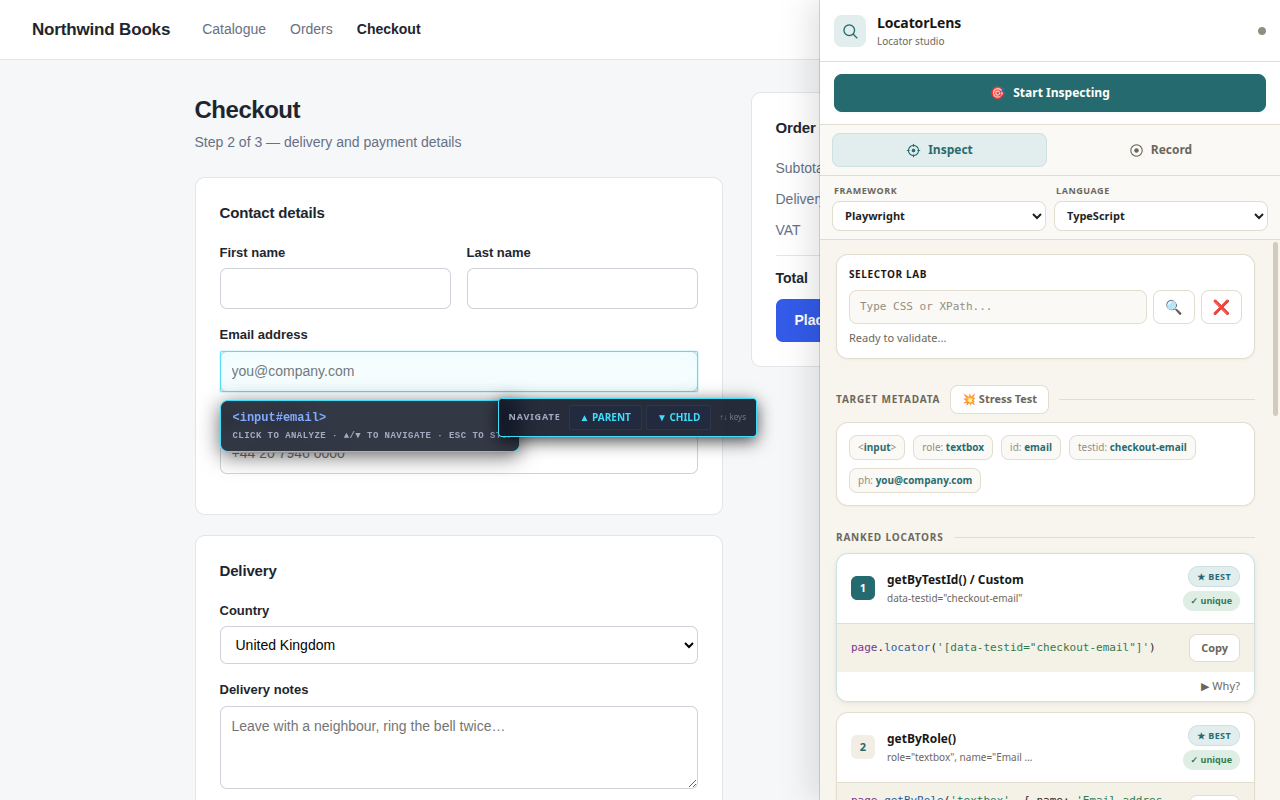
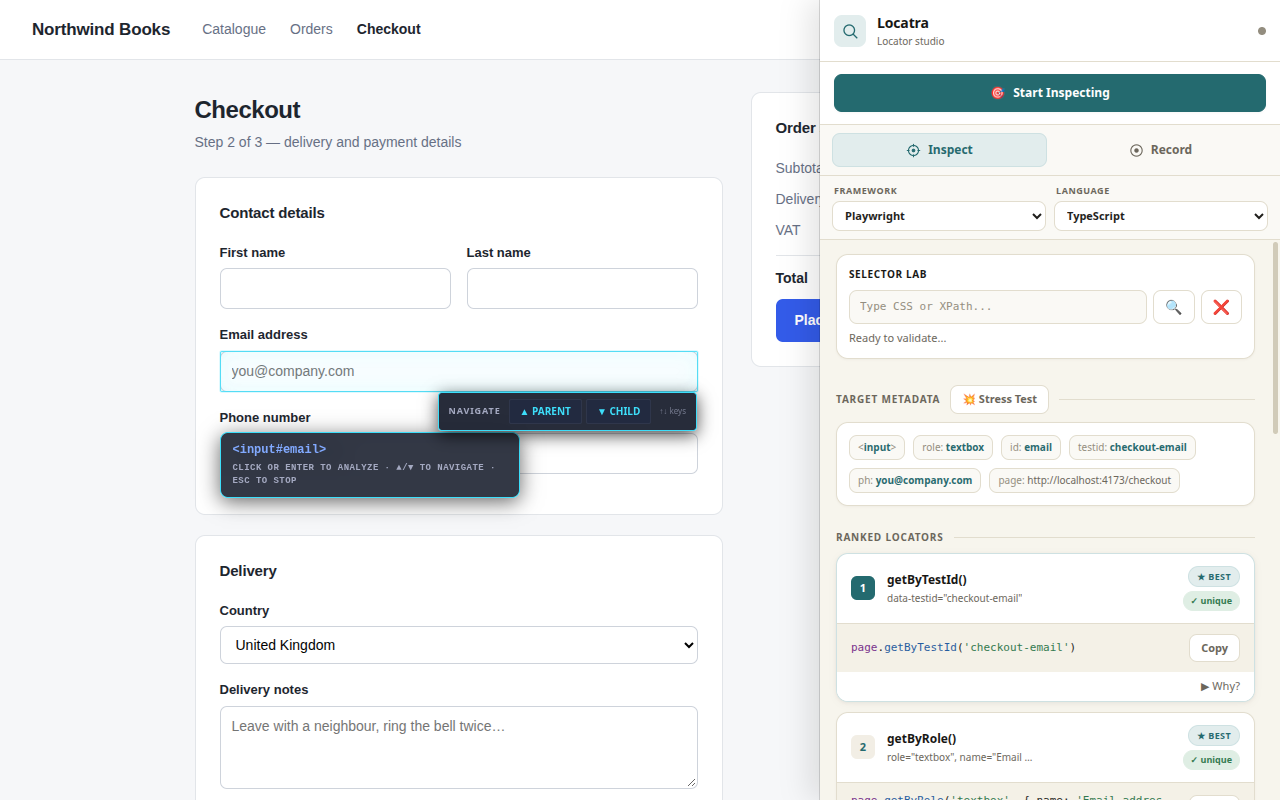
release: 1.4.0
Version bump, changelog for the full audit round, and store screenshots
and promo tiles regenerated under the Locatra name.

diff --git a/CHANGELOG.md b/CHANGELOG.md
@@ -2,6 +2,124 @@
 
 All notable changes to Locatra (formerly LocatorLens). Versions follow [semantic versioning](https://semver.org).
 
+## [1.4.0] — 2026-10-09
+
+A full audit of every feature and file. Renames the extension to **Locatra** and fixes
+everything the audit found. Locator uniqueness now matches what Playwright actually
+does, the recorder no longer captures secrets, and the Selenium and Cypress exports
+now find labelled form fields.
+
+### Security & privacy
+
+- **Passwords, one-time codes and card fields are never recorded.** The step stores no
+  value. The generated fill reads `LOCATRA_PASSWORD` / `LOCATRA_SECRET` from the
+  environment (`process.env`, `os.environ`, `Cypress.env`, with `log: false`).
+  Previously the real password was shown in the timeline, written into the script and
+  kept in `chrome.storage.local`.
+- Secret URL parameters (`password`, `access_token`, `api_key`, …) are redacted in
+  recorded URLs.
+- The side panel's HTML sanitizer is now an allowlist.
+
+### Fixed — locators
+
+- The CSS fallback no longer returns an ancestor's `#id` instead of the element.
+- Uniqueness is counted with Playwright's own matching rules: case-insensitive
+  substring, whitespace-normalized, and hidden elements excluded for `getByRole`. When
+  only the exact text is unique, the locator says `exact: true`. "Save" next to
+  "Save draft" is no longer reported as unique.
+- Unique locators always rank above ambiguous ones, so the recorder never picks an
+  ambiguous locator when a unique one exists.
+- Implicit roles and accessible names follow Playwright: `aria-labelledby` before
+  `aria-label`, `select[multiple]` is a listbox, `alt=""` images are presentation,
+  unnamed `<section>`s are not regions, and more.
+- `getByText` matches the smallest element containing the text, as Playwright does.
+  Text over 60 characters no longer produces a locator that matches nothing.
+- `getByLabel` covers `aria-labelledby` and labelled ARIA widgets.
+- There is no longer a 4,000-element scan limit, and open shadow roots are counted
+  everywhere.
+- Generated-class and generated-id detection: Bootstrap classes such as
+  `btn-primary` are no longer flagged. CSS-modules, styled-components and emotion
+  hashes, React `useId` ids, Radix, MUI and Angular Material ids and UUIDs are now
+  caught.
+
+### Fixed — recorder
+
+- Recording on a page with iframes (ads, reCAPTCHA, chat widgets) no longer adds
+  `page.goto(<iframe url>)` steps.
+- A fill is always recorded before the Enter or click that commits it, and only once.
+- Typing, checkboxes and selects inside shadow DOM components are recorded.
+- Capture resumes immediately after navigation, including inside iframes and iframes
+  added later. Tabs opened from the recorded tab join the recording.
+- Stop, Pause, Resume and assert mode act on the tab being recorded, not whichever
+  tab is active. Assert mode survives navigation.
+- Steps recorded while the side panel is closed are kept and delivered when it
+  reopens.
+- Recording inspects without clicking the page. Assert mode and Alt+Click no longer
+  trigger the page's own action.
+- File uploads record `setInputFiles`. Range, color and date inputs record their
+  value. Double-click records one step. Keyboard combos such as Shift+Tab are recorded
+  correctly, and IME composition no longer records a stray Enter.
+- Long-text assertions no longer fail, because they use `toContainText`.
+- A tab whose content script was orphaned by an extension update recovers without a
+  page reload.
+- Iframes added inside open shadow DOM, such as payment or chat widgets built as web
+  components, now get the content script. Their frame selectors are checked for
+  uniqueness across all shadow roots.
+
+### Fixed — Selenium & Cypress export
+
+- Role, label and text locators now match form controls by their accessible name:
+  `<label for>`, a wrapping `<label>`, `aria-label`, `aria-labelledby`. Previously they
+  matched nothing.
+- The Selenium text XPath no longer resolves to `<html>`.
+- Cypress: Tab uses `cy.press`. Typed values containing `{…}` are typed literally.
+  ARIA checkboxes can be checked. Cross-origin steps are wrapped in `cy.origin`.
+- Selenium: check and uncheck are idempotent, and the viewport step sets the viewport
+  size rather than the window size.
+- Every control character is escaped in every language. A NUL byte no longer breaks
+  Python output.
+- Cypress key combos, such as Shift+Tab, use `cy.realPress` from
+  [cypress-real-events](https://github.com/dmtrKovalenko/cypress-real-events). Unlike
+  `cy.type` modifiers, it makes the browser do the real thing, such as moving focus
+  backwards.
+  - The import is added only when a spec needs it.
+  - Specs that use it run in Chromium-based browsers only.
+  - Inside `cy.origin()` blocks it also needs `experimentalOriginDependencies: true`.
+- Frames inside shadow DOM: Selenium steps through `getShadowRoot()` / `shadow_root`,
+  and Cypress through `.shadow()`, to reach the frame.
+- Custom test-attribute names containing CSS-special characters (`data:qa`) are
+  escaped.
+
+### Fixed — UI
+
+- "Open Results Panel" in the popup now actually opens the panel. It is opened
+  directly from the click, which browsers require. Firefox can also close it.
+- Locatra reports when it can't run on a page (browser pages, the Web Store, PDFs)
+  instead of showing "Recording" while capturing nothing.
+- Side panels in different windows no longer receive each other's steps or picks.
+- Switching framework after editing the script asks before discarding the edits.
+- Reset no longer comes back after a framework switch.
+- The panel works in narrow Firefox sidebars.
+- The Copy button no longer gets stuck on "✓ Copied".
+- The Stress Test no longer shows two contradictory results.
+- Accessibility fixes: labelled step buttons, `aria-expanded` on toggles, and focus
+  kept after removing a step.
+
+### Tooling
+
+- CI was red on formatting. The pre-commit hook now runs Prettier as well as ESLint.
+- ESLint 9 with a flat config.
+- Coverage is measured for every source file, with ratcheted thresholds. Locator
+  engine coverage went from 70% to 99% statements, and the expected values in its
+  tests are checked against real Playwright.
+- The store-policy build check is stricter and its own tests now include fixtures
+  that must fail.
+- Firefox packages are validated with `web-ext lint`.
+- The smoke test now proves in a real browser that passwords are never stored and
+  that Selenium locators resolve.
+- Store promo art and docs use the Locatra name. The privacy policy describes exactly
+  what is stored.
+
 ## [1.3.0] — 2026-08-02
 
 Adds iframe support, and clears the remaining known gaps from the 1.2.1 audit.
